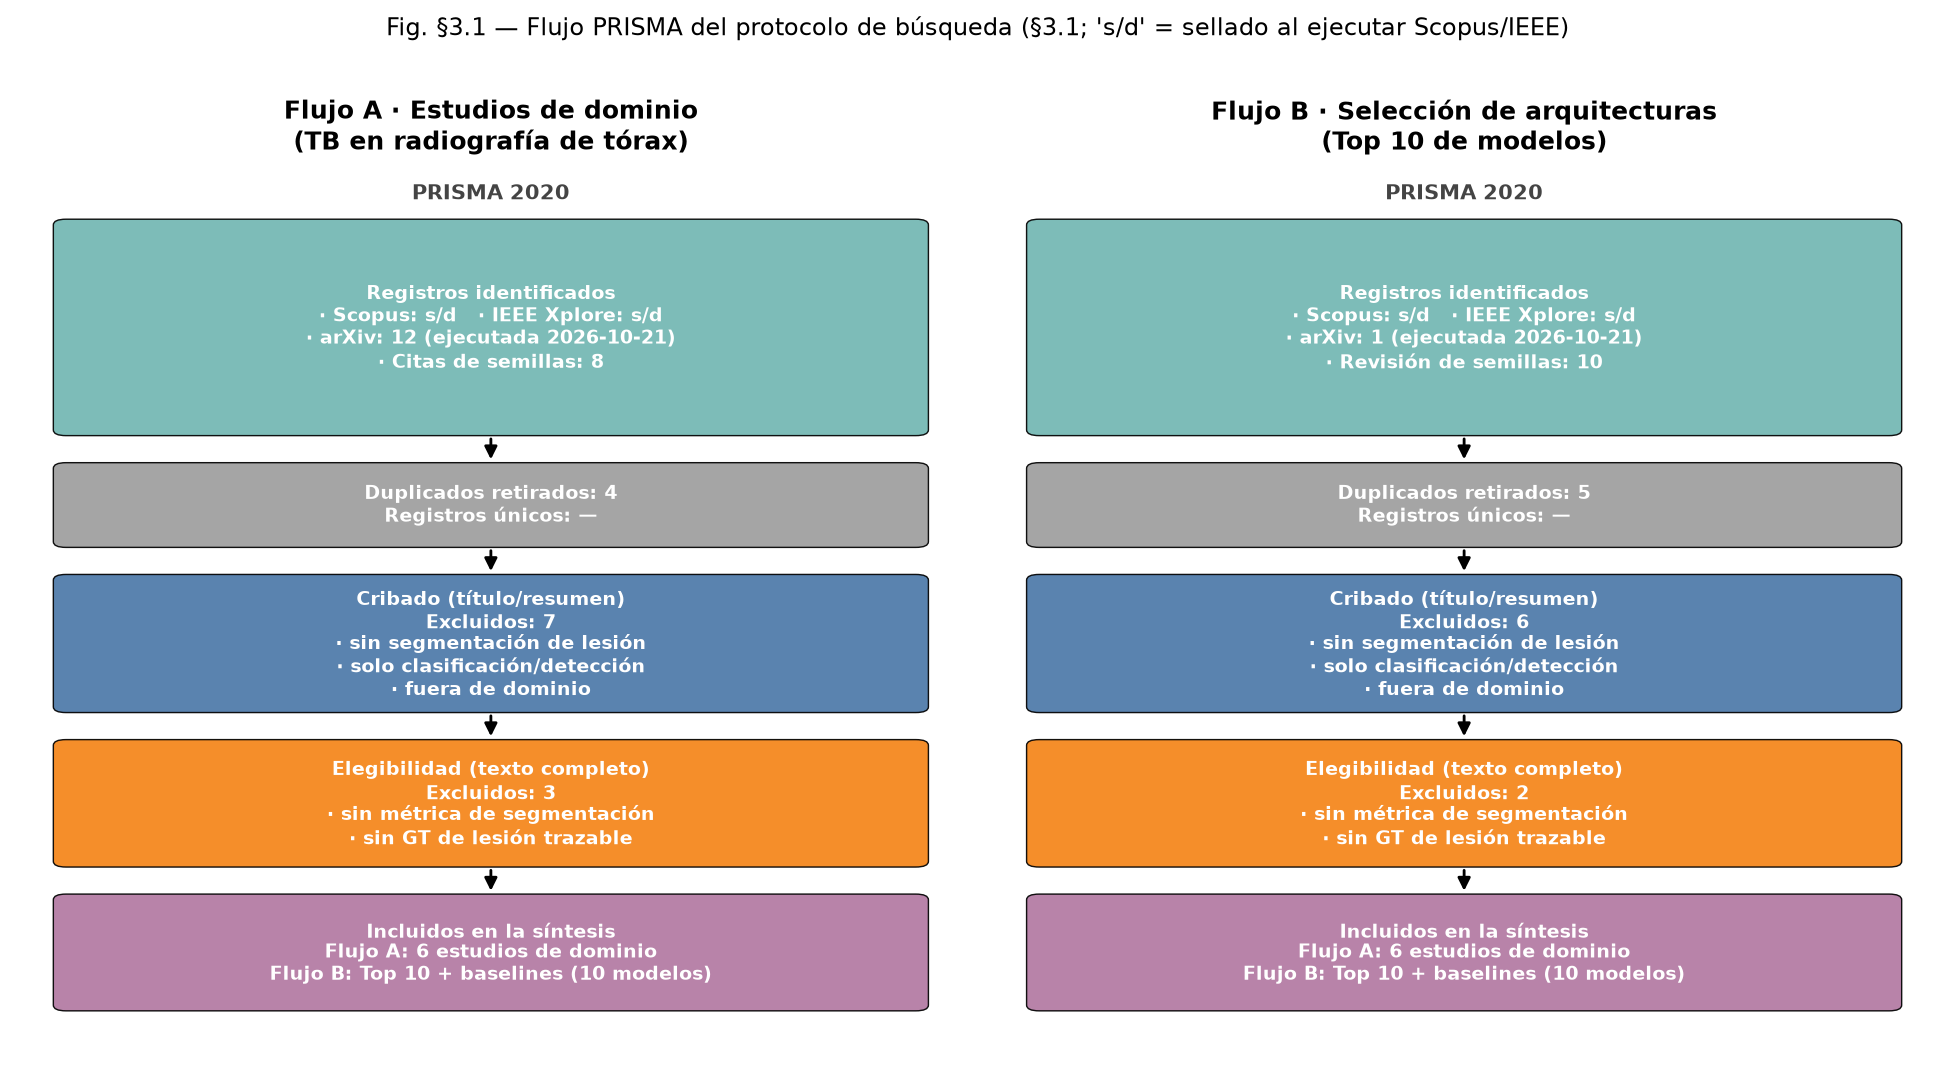
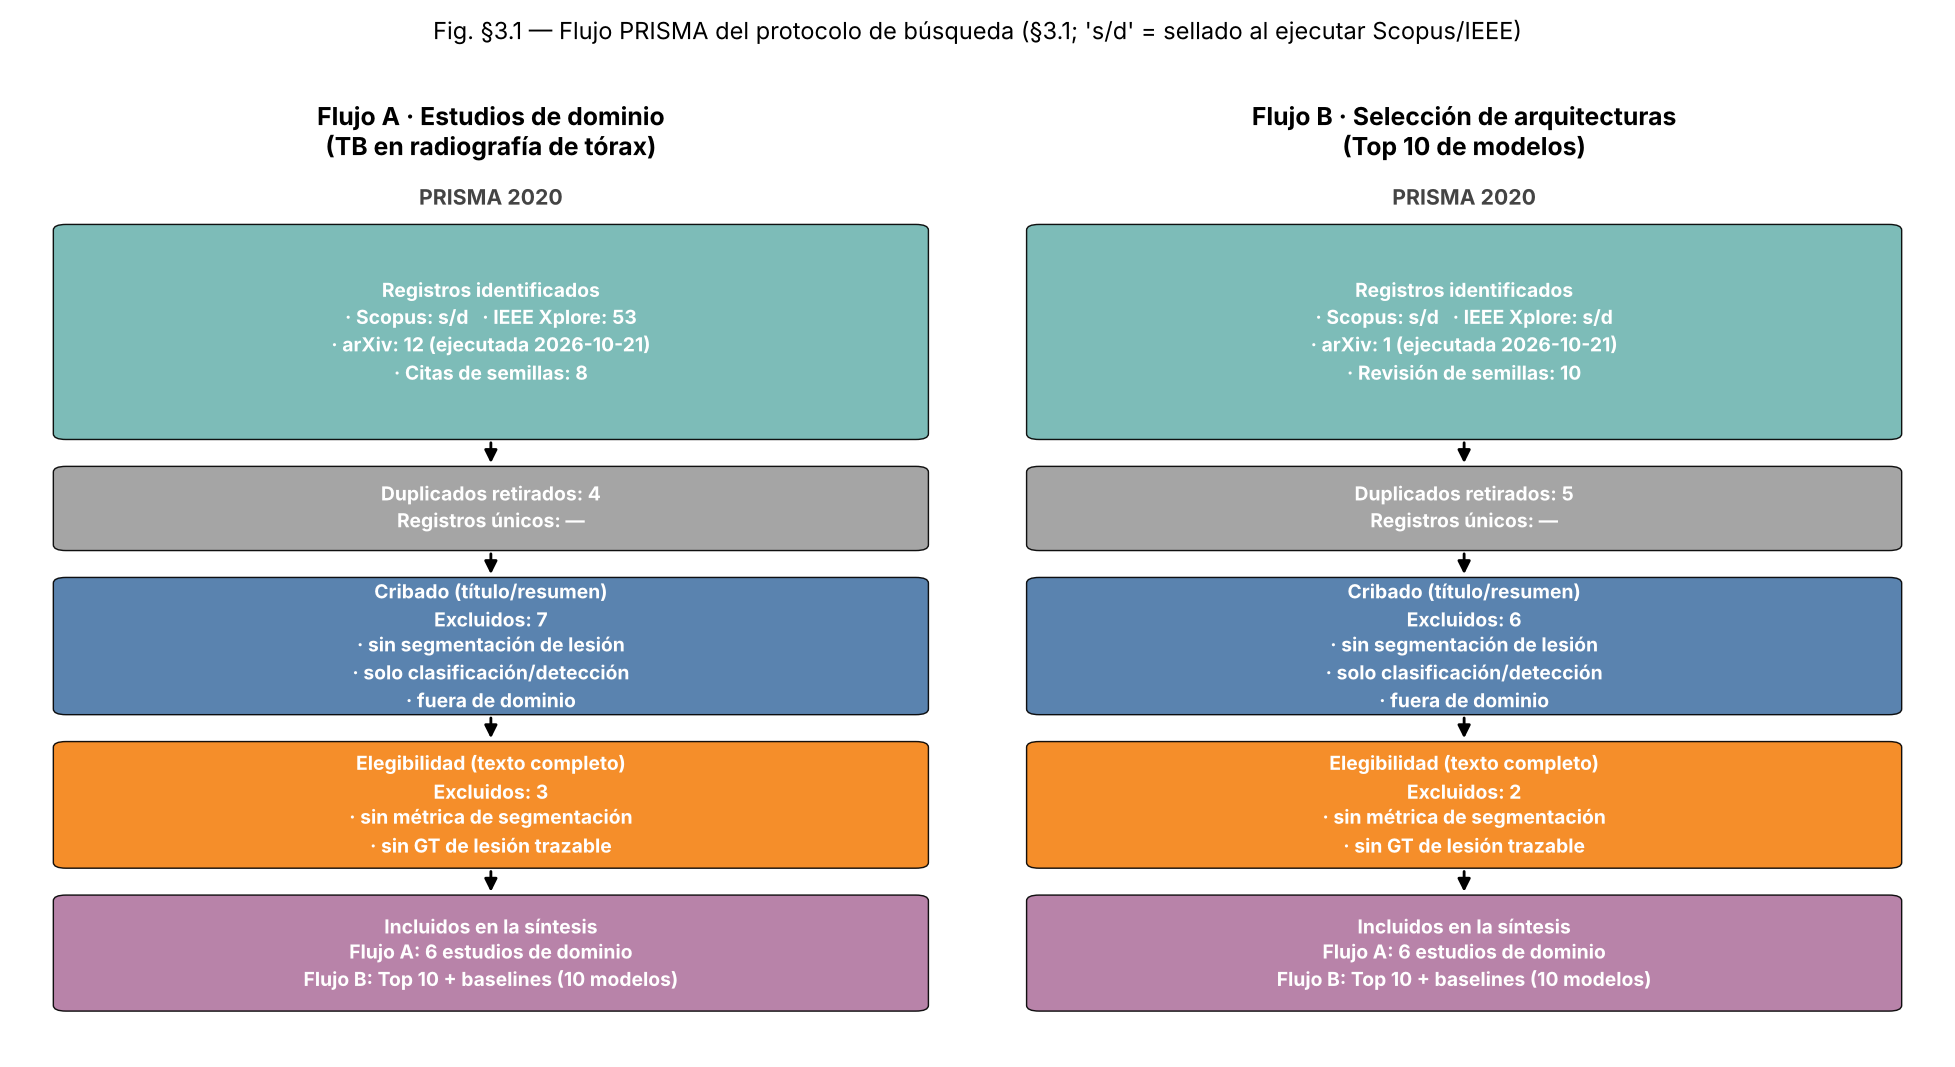
PRISMA: conteo IEEE Xplore (flujo A, 53 resultados) y cadena Command Search

diff --git a/codigo/build_figuras_rev.py b/codigo/build_figuras_rev.py
@@ -21,10 +21,11 @@ from matplotlib.patches import FancyArrowPatch, FancyBboxPatch
 
 # --------------------------------------------------------------------------- #
 # Conteos PRISMA (§3.1) — 's/d' = por ejecutar con acceso institucional
+# IEEE flujo A = 53 (Command Search, 2012–2026, consulta del 2026-11-16)
 # --------------------------------------------------------------------------- #
 COUNTS = {
     # Flujo A: estudios de dominio (TB en radiografía)
-    "A": {"scopus": "s/d", "ieee": "s/d", "arxiv": 12, "citas": 8,
+    "A": {"scopus": "s/d", "ieee": 53, "arxiv": 12, "citas": 8,
           "dup": 4, "exc_titulo": 7, "exc_texto": 3, "incl": 6},
     # Flujo B: selección de arquitecturas (Top 10)
     "B": {"scopus": "s/d", "ieee": "s/d", "arxiv": 1, "semillas": 10,

diff --git a/libro/book/03_revision_sistematica.md b/libro/book/03_revision_sistematica.md
@@ -30,7 +30,7 @@ con acceso institucional y regenerar `codigo/build_figuras_rev.py`.
 | Fuente | Rol | Estado (2026-10-21) |
 |---|---|---|
 | **Scopus** | principal | cadenas selladas Sección 3.1.3; conteo pendiente de acceso institucional |
-| **IEEE Xplore** | principal | idem |
+| **IEEE Xplore** | principal | **S1 ejecutada el 2026-11-16: 53 resultados** (2012–2026); S2 y S3 pendientes |
 | **arXiv** | complementaria | **ejecutada vía API oficial** (conteos abajo) |
 | Web of Science | — | no disponible; Scopus cubre el requisito Q1 |
 
@@ -46,8 +46,9 @@ segmentación biomédica.
 ```text
 Scopus:   TITLE-ABS-KEY(("tuberculosis") AND ("chest x-ray" OR "chest radiograph"
             OR "CXR") AND ("segmentation" OR "lesion*")) AND PUBYEAR > 2017
-IEEE:     ("tuberculosis") AND ("chest x-ray" OR "chest radiograph")
-            AND ("segmentation")   [Search Metadata: Abstract/Title/Keywords]
+IEEE:     ("Abstract":tuberculosis OR "Document Title":tuberculosis)
+            AND ("Abstract":"chest x-ray" OR "Abstract":"chest radiograph" OR "Abstract":CXR)
+            AND ("Abstract":segmentation)      [IEEE Xplore, Command Search]
 arXiv:    abs:"tuberculosis" AND abs:"segmentation"
             AND (abs:"chest x-ray" OR abs:"chest radiograph")
 ```
@@ -91,13 +92,17 @@ Scopus:   TITLE-ABS-KEY(("tuberculosis") AND ("explainab*" OR "interpretab*"
 
 *Fig. 3.1.* Flujo PRISMA 2020 doble: **A** = estudios de dominio (TB-CXR);
 **B** = selección de arquitecturas. `s/d` = conteo por sellar al ejecutar
-Scopus/IEEE (Sección 3.1.2); los conteos arXiv **ya están ejecutados y son
+Scopus (todo) e IEEE flujo B (Sección 3.1.2); IEEE flujo A = 53 (2026-11-16); los conteos arXiv **ya están ejecutados y son
 reproducibles** con la API oficial y las cadenas textuales de Sección 3.1.2. El script
 `codigo/build_figuras_rev.py` regenera la figura al sustituir `COUNTS`.
 
 ### 3.1.5 Amenazas del protocolo
 
-- **Acceso.** Sin acceso institucional, los conteos Scopus/IEEE quedan como
+- **IEEE (S1).** Se ejecutó en Command Search el 2026-11-16 con resultado de 53 documentos, sin filtro de años
+  (el rango de las publicaciones devueltas fue 2012–2026, más amplio que el 2015–2026 de la Sección 3.1.1). Los números
+  posteriores del PRISMA (duplicados, exclusiones e incluidos) **no se recalcularon** con esos 53 documentos; el cribado
+  del flujo A se hizo antes de contar IEEE.
+- **Acceso.** Sin acceso institucional, los conteos Scopus (todas las cadenas) e IEEE (S2 y S3) quedan como
   variables del PRISMA; las cadenas están selladas para ejecución idéntica.
 - **Publicación sesgada hacia positivos.** La literatura de TB tiende a reportar
   mejoras sobre baselines débiles (se analiza en Sección 3.3 "sesgo de reporte").
